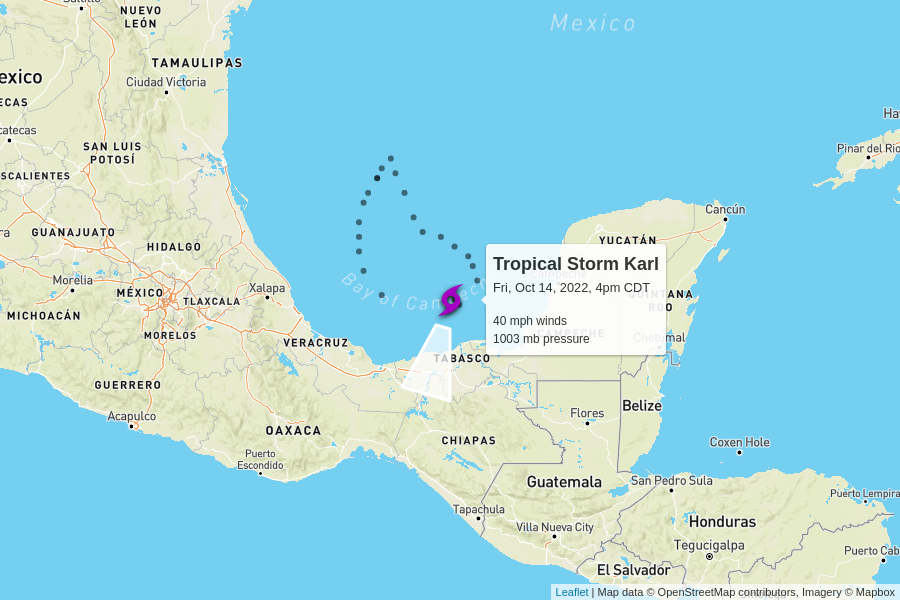
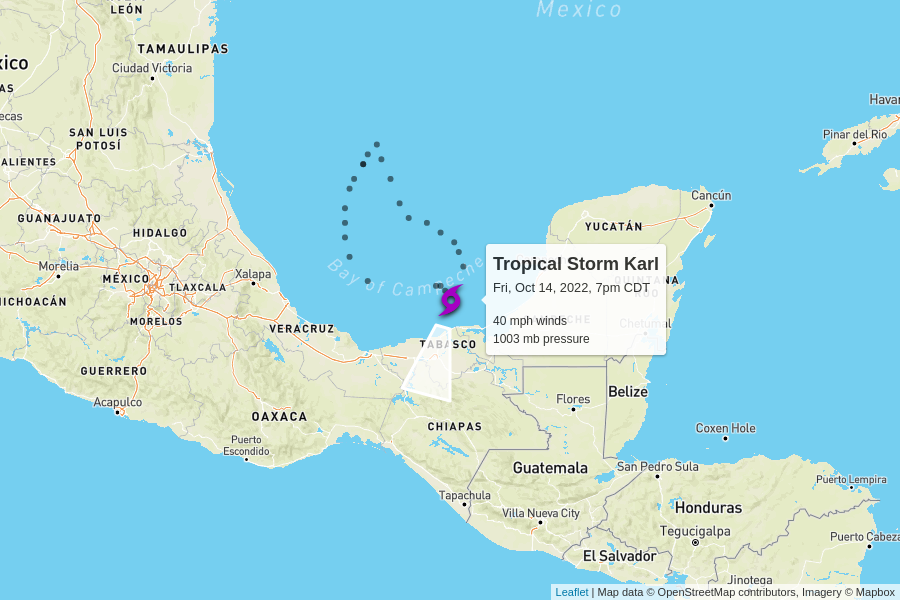
automatic update

diff --git a/docs/index.html b/docs/index.html
@@ -100,7 +100,7 @@
         <td colspan="6" class="storm category-0" >
           <h2>
             Tropical Storm Karl
-            <p class="updated">last updated <span data-time>2022-10-14T21:00:00.000Z</span></p>
+            <p class="updated">last updated <span data-time>2022-10-15T00:00:00.000Z</span></p>
           </h2>
         </td>
       </tr>
